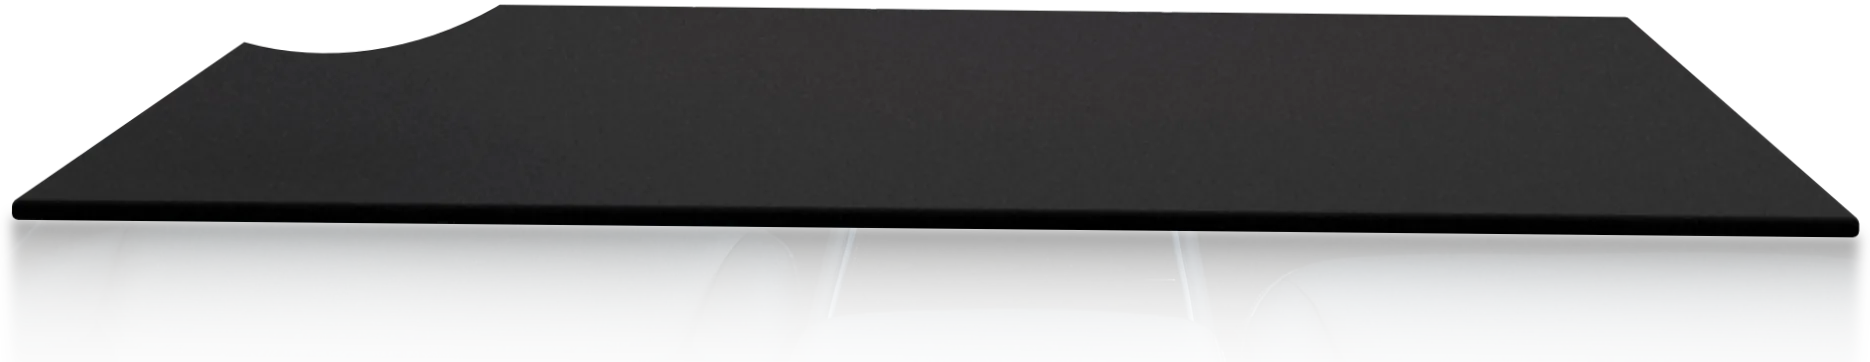
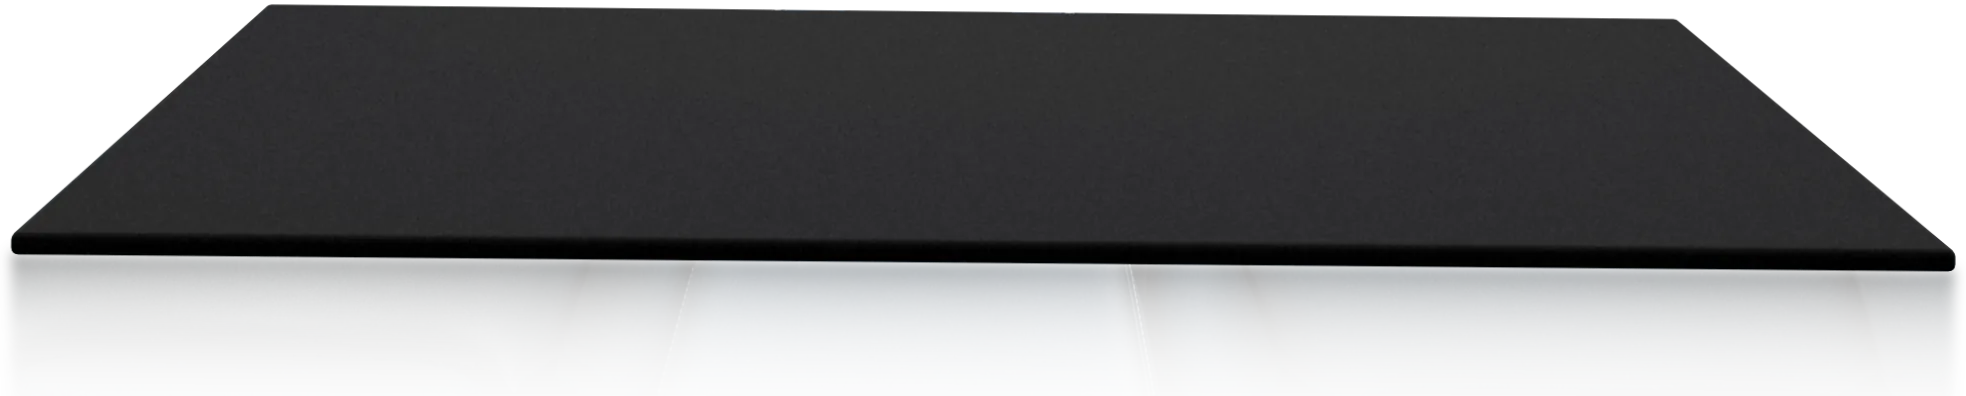
Site: the board sits below the wheel, shifted toward the passenger
The board is lowered to lap height (its top 11 cm below the rim's lowest
point) and moved 10 cm toward the passenger, so its driver end starts near
the wheel's centre line. With no overlap left, the wheel holdout, the 2D
rim and spoke redraw layers and the rim shadow are gone. The MacBook moves
with the board. ASSET_V is ?v=4.

Changed region(s): [[0.0, 0.4862, 1.0, 0.6989], [0.062, 0.0, 0.9615, 0.4862], [0.031, 0.3646, 0.062, 0.395]]

diff --git a/website/src/sections/Office.tsx b/website/src/sections/Office.tsx
@@ -1,5 +1,5 @@
 import { ASSET_V } from '../lib/links';
-import { useCallback, useEffect, useLayoutEffect, useRef, useState, type SyntheticEvent } from 'react';
+import { useCallback, useEffect, useLayoutEffect, useRef, useState } from 'react';
 import { gsap, ease, prefersReducedMotion } from '../lib/motion';
 import { Band } from './Band';
 import './Office.css';
@@ -20,19 +20,13 @@ const STEPS = [
  * (the whole scene: the board, the MacBook and the screen's swivel as a real slab in front of the projected photo).
  */
 const W = 2700;
-const H = 1460;
 /** The swivel's window in the crop (x, y, w, h): the clip, its last frame and the desk still, from prep_office.py. */
 const SWIVEL = [1008, 132, 664, 488];
 /** The turn's clip length (s): 27 frames at 30 fps, from 0° to 30° toward the passenger. */
 const TURN_S = 0.9;
 /** The rendered sprites' places in the crop (x, y, w, h), from prep_office.py. */
-const BOARD_SPRITE = [308, 633, 1870, 362];
-const MAC_SPRITE = [1356, 398, 801, 456];
-/** The steering wheel in the photo (crop px): its rim and lower spoke are drawn back over the board. */
-const RIM = { cx: 670, cy: 370, rx: 312, ry: 291 };
-const RIM_T = 45;
-const ellipsePath = (cx: number, cy: number, rx: number, ry: number) => `M${cx - rx} ${cy} a${rx} ${ry} 0 1 0 ${2 * rx} 0 a${rx} ${ry} 0 1 0 ${-2 * rx} 0 Z`;
-const RIM_RING = ellipsePath(RIM.cx, RIM.cy, RIM.rx, RIM.ry) + ' ' + ellipsePath(RIM.cx, RIM.cy, RIM.rx - RIM_T, RIM.ry - RIM_T);
+const BOARD_SPRITE = [403, 727, 1966, 396];
+const MAC_SPRITE = [1391, 462, 968, 520];
 const BASE = '/demo/';
 
 interface Pose {
@@ -59,7 +53,7 @@ const STEP_MS = 2800;
 /**
  * "Your office, anywhere" as one dark passage in /powerwall's layout: the heading, then the composite across the
  * content column (a real Model 3 cabin by Bram Van Oost on Unsplash, with the setup drawn into it in the photo's
- * own perspective: the screen swivels toward the passenger, the trunk's subfloor cover slides in under the wheel,
+ * own perspective: the screen swivels toward the passenger, the trunk's subfloor cover slides in below the wheel,
  * and a MacBook sits on its passenger end with the car's screen as its second display), the three steps as
  * columns under it with the active one white, and the band's photo rising out of the same black with the story's
  * closing line. Each step animates in 0.7 s; the steps advance while the section is on screen, until someone
@@ -76,7 +70,7 @@ export function Office() {
   const pose = useRef<Pose>({ ...(reduced ? POSES[2] : OPENING) });
   const shown = useRef(reduced ? STEPS.length - 1 : -1);
 
-  /** Draws the current pose. The board slides in from the passenger side, under the rim. */
+  /** Draws the current pose. The board slides in from the passenger side, below the wheel. */
   const draw = useCallback(() => {
     const w = world.current;
     if (!w) return;
@@ -220,12 +214,6 @@ export function Office() {
     setActive(i);
   };
 
-  /** The rim is redrawn from the photo itself, so use whichever size the browser picked for the base. */
-  const onPhoto = (e: SyntheticEvent<HTMLImageElement>) => {
-    const img = e.currentTarget;
-    world.current?.querySelectorAll('.o-rim').forEach((r) => r.setAttribute('href', img.currentSrc || img.src));
-  };
-
   return (
     <section id="office" className="office section on-dark" ref={root} aria-labelledby="office-title">
       <div className="wrap">
@@ -250,7 +238,6 @@ export function Office() {
               sizes="(max-width: 1247px) 100vw, 1200px"
               alt=""
               decoding="async"
-              onLoad={onPhoto}
             />
             <div className="o-world" ref={world} aria-hidden="true">
               <div className="o-swivel" style={{ transform: `translate(${SWIVEL[0]}px, ${SWIVEL[1]}px)`, width: SWIVEL[2], height: SWIVEL[3] }}>
@@ -264,20 +251,6 @@ export function Office() {
                 )}
               </div>
               <img className="o-board-img" src={BASE + 'office-board.webp' + ASSET_V} width={BOARD_SPRITE[2]} height={BOARD_SPRITE[3]} alt="" loading="lazy" decoding="async" />
-              <svg className="o-over" viewBox={`0 0 ${W} ${H}`} width={W} height={H}>
-                <defs>
-                  {/* What of the wheel is in front of the board: the rim (an annulus) and the lower spoke, as two
-                      clips (one clip with both would even-odd away their overlap). */}
-                  <clipPath id="office-rim">
-                    <path clipRule="evenodd" d={RIM_RING} />
-                  </clipPath>
-                  <clipPath id="office-spoke">
-                    <polygon points="607,517 737,517 708,640 612,640" />
-                  </clipPath>
-                </defs>
-                <image className="o-rim" href={BASE + 'office-1400.webp' + ASSET_V} x="0" y="0" width={W} height={H} clipPath="url(#office-rim)" preserveAspectRatio="none" />
-                <image className="o-rim" href={BASE + 'office-1400.webp' + ASSET_V} x="0" y="0" width={W} height={H} clipPath="url(#office-spoke)" preserveAspectRatio="none" />
-              </svg>
               <img className="o-mac-img" src={BASE + 'office-macbook.webp' + ASSET_V} width={MAC_SPRITE[2]} height={MAC_SPRITE[3]} alt="" loading="lazy" decoding="async" />
             </div>
           </div>

diff --git a/website/src/sections/Office.css b/website/src/sections/Office.css
@@ -133,17 +133,12 @@
   pointer-events: none;
 }
 
-.o-world > svg,
 .o-world > div,
 .o-world > img {
   position: absolute;
   top: 0;
   left: 0;
   transform-origin: 0 0;
-}
-
-.o-world > svg {
-  overflow: visible;
 }
 
 /* The swivel: a clip of the screen turning (only the pixels that change, blended into the photo), its last

diff --git a/website/src/lib/links.ts b/website/src/lib/links.ts
@@ -7,4 +7,4 @@ export const DONATE_URL = 'https://paypal.me/dw2lam';
 export const APP_VERSION = '0.0.1';
 
 /** Appended to /demo and /media image URLs. Bump it when a file changes in place under the same name. */
-export const ASSET_V = '?v=3';
+export const ASSET_V = '?v=4';

diff --git a/website/research/office/render_office.py b/website/research/office/render_office.py
@@ -9,12 +9,10 @@ looking straight down the car. Car frame (x → passenger, y ↓, z → forward,
 (X = x, Y = z, Z = -y). Renders are in this "model" camera; prep_office.py maps them onto the photo with the
 screen's correction homography (HC), grades and grains them.
 
-The steering wheel is in the scene as a holdout (rim torus, hub and lower spoke, fitted to the photo's rim
-through HC⁻¹): wherever it is in front, the renders are already cut out, so the photo's own wheel shows.
-
-board:   the trunk's subfloor cover, a bevelled carpeted slab 1.06 × 0.45 m × 12 mm at lap height (its top
-         41 cm below eye level, 8 cm below the rim's lowest point), reaching forward past the lower rim, which
-         (a holdout) stays in front of it, from the driver side to the passenger side.
+board:   the trunk's subfloor cover, a bevelled carpeted slab 1.02 × 0.40 m × 12 mm at lap height, entirely
+         below the steering wheel: its top 11 cm under the rim's lowest point (wheel fitted from the photo's rim
+         through HC⁻¹: centre (−0.41, 0.15, 1.23) m, 38 cm, tilted 20°), and its far edge ~40 px below the rim
+         in the image, so the two never overlap. Its driver end starts near the wheel's centre line.
 macbook: "MacBook Pro M3 16 Inch 2024" by jackbaeten (CC BY 4.0, refs/macbook) scaled to a 14" footprint
          (×0.88), open at its modelled ~112°, our Mac desktop on its display, its logo and engravings hidden,
          on the board's passenger end; the board is a shadow catcher, so its shadow lands on the carpet.
@@ -45,10 +43,8 @@ CROP = (150, 560, 2850, 2000)
 # The swivel's render window in model px (the screen's neighbourhood; prep_office.py maps it to the photo).
 SWIVEL_WIN = (1150, 680, 1830, 1190)
 
-BOARD = {'x0': -0.58, 'x1': 0.48, 'z0': 1.15, 'z1': 1.60, 'y': 0.41, 't': 0.012}
-# The wheel in model space: the photo's rim ellipse through HC⁻¹, as a 38 cm wheel tilted 20°.
-WHEEL = {'c': (-0.409, 0.153, 1.23), 'r': 0.19, 'tilt': 20.1}
-MAC = {'x': 0.30, 'zf': 1.19, 'scale': 0.88}
+BOARD = {'x0': -0.48, 'x1': 0.54, 'z0': 1.05, 'z1': 1.45, 'y': 0.44, 't': 0.012}
+MAC = {'x': 0.358, 'zf': 1.09, 'scale': 0.88}
 # The screen (model space): outer glass centre, size, and the mount's pivot behind it.
 SCREEN = {'c': (-0.00535, 0.14686, 1.37462), 'w': 0.368, 'h': 0.24153, 'depth': 0.02, 'pivot': 0.035}
 TURN = 30.0
@@ -166,32 +162,6 @@ def board(sc, catcher=False):
     ob.data.materials.append(carpet())
     ob.is_shadow_catcher = catcher
     return ob
-
-
-def wheel(sc, shadow=True):
-    """The steering wheel as a holdout (cut out of every render) that still casts its shadow: the rim, the
-    hub and the lower spoke. Slightly slimmer than the photo's rim, which is drawn back on top in the page."""
-    w = WHEEL
-    parent = bpy.data.objects.new('wheel', None)
-    sc.collection.objects.link(parent)
-    parent.location = car(*w['c'])
-    # Wheel plane: faces the driver (-Y world), top tilted forward by `tilt`.
-    parent.rotation_euler = (math.radians(90 - w['tilt']), 0, 0)
-    parts = []
-    bpy.ops.mesh.primitive_torus_add(major_radius=w['r'] - 0.016, minor_radius=0.013, major_segments=128, minor_segments=16)
-    parts.append(bpy.context.active_object)
-    bpy.ops.mesh.primitive_cylinder_add(radius=0.075, depth=0.06, vertices=64)
-    parts.append(bpy.context.active_object)
-    bpy.ops.mesh.primitive_cube_add(size=1)
-    spoke = bpy.context.active_object
-    spoke.scale = (0.06, 0.12, 0.03)
-    spoke.location = (0, -0.11, 0)
-    parts.append(spoke)
-    for o in parts:
-        o.parent = parent
-        o.is_holdout = True
-        o.visible_shadow = shadow
-    return parent
 
 
 def display_material():
@@ -413,8 +383,6 @@ def main():
     sc = scene(ARG or 128, exposure=-1.6 if MODE == 'board' else -1.8)
     camera(sc)
     lights(sc)
-    # The rim's shadow belongs to the board's own render; in the MacBook's it would show up only in step 3.
-    wheel(sc, shadow=MODE == 'board')
     if MODE == 'board':
         board(sc)
     else:
